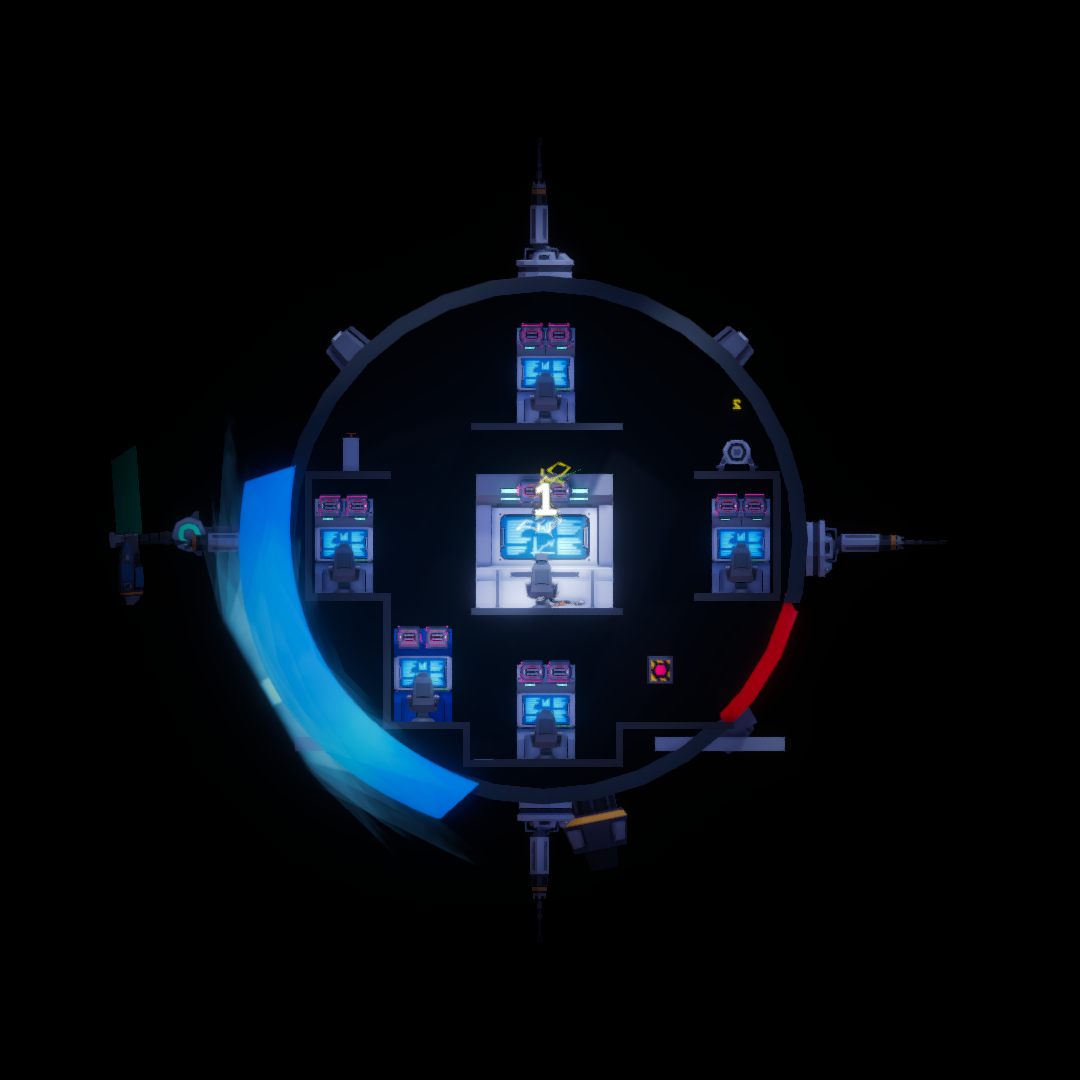
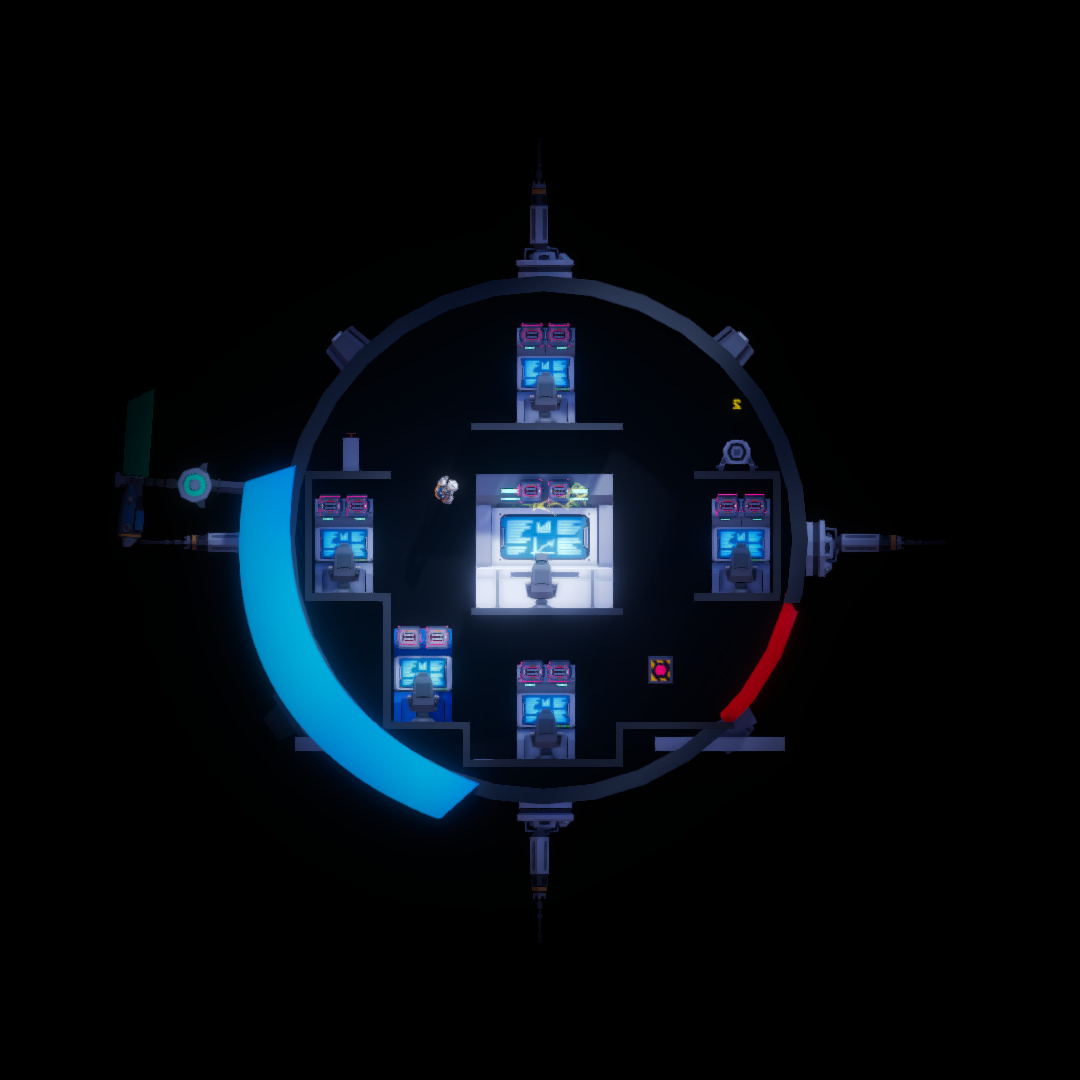
Better Ragdoll Biting

diff --git a/Assets/Scripts/AI/MegalodonRagdollAttack.cs b/Assets/Scripts/AI/MegalodonRagdollAttack.cs
@@ -7,7 +7,9 @@ public class MegalodonRagdollAttack : GAction
 {
     #region Editor Fields
 
+    [SerializeField] private Transform _mouthTransform;
     [SerializeField] private Collider _biteCollider;
+    [SerializeField] private Collider _bodyCollider;
     [SerializeField] private float _attackSpeed = 50f;
 
     #endregion
@@ -16,14 +18,24 @@ public class MegalodonRagdollAttack : GAction
 
     private GameObject _currentRunAwayObj;
     private bool _goToZPos;
+    private bool _prevIsKinematic;
+    private bool _prevUseGravity;
+    private bool _hitShip;
 
     #endregion
 
     public override bool PrePerform()
     {
-        Debug.Log("PrePerform MegalodonRagdollAttack");
+        _hitShip = false;
+
+        _prevUseGravity = GAgent.StateMachine.Rb.useGravity;
+        _prevIsKinematic = GAgent.StateMachine.Rb.isKinematic;
 
         _biteCollider.enabled = true;
+        _bodyCollider.enabled = false;
+
+        GAgent.StateMachine.Rb.isKinematic = true;
+        GAgent.StateMachine.Rb.useGravity = false;
         GAgent.StateMachine.CanMove = false;
 
         GameObject newTargetObj = new GameObject();
@@ -53,6 +65,8 @@ public class MegalodonRagdollAttack : GAction
 
         Ship.Instance.FreezeShip(true);
 
+        _hitShip = true;
+
         _biteCollider.enabled = false;
     }
 
@@ -73,6 +87,11 @@ public class MegalodonRagdollAttack : GAction
 
     public override bool Perform()
     {
+        if (!_hitShip) { return true; }
+
+        GAgent.StateMachine.Attack(5, false);
+        Ship.Instance.transform.position = _mouthTransform.position;
+
         return true;
     }
 
@@ -80,7 +99,12 @@ public class MegalodonRagdollAttack : GAction
     {
         if(_currentRunAwayObj != null) { Destroy(_currentRunAwayObj); }
 
+        GAgent.StateMachine.Rb.isKinematic = _prevIsKinematic;
+        GAgent.StateMachine.Rb.useGravity = _prevUseGravity;
+        _bodyCollider.enabled = true;
         _goToZPos = false;
+
+        GAgent.StateMachine.ResetAttacking();
 
         Debug.Log("PostPerform MegalodonRagdollAttack");
 

diff --git a/Assets/Scripts/AI/AIStateMachine.cs b/Assets/Scripts/AI/AIStateMachine.cs
@@ -39,12 +39,18 @@ public class AIStateMachine : BaseStateMachine
         StartCoroutine(SetIsShootingCoroutine());
     }
 
-    public void Attack(int attackNumber)
+    public void Attack(int attackNumber, bool checkCanMove = true)
     {
-        if (!CanMove) { return; }
+        if (checkCanMove) { if (!CanMove) { return; } }
 
         Anim.SetInteger("AttackType", attackNumber);
         Anim.SetTrigger("Attack");
+    }
+
+    public void ResetAttacking()
+    {
+        Anim.SetInteger("AttackType", 0);
+        Anim.ResetTrigger("Attack");
     }
 
     public void SetIsCarryingItem(bool isCarrying)

diff --git a/Assets/Scripts/AI/Megalodon.cs b/Assets/Scripts/AI/Megalodon.cs
@@ -41,6 +41,8 @@ public class Megalodon : GAgent
         Vector3 difVector = CurrentAction ? transform.position - CurrentAction.Target.transform.position : Vector3.zero;
 
         float yRotationTarget = difVector.x > 0 ? 270f : 90f;
+        if(CurrentAction is MoveInZPlane) { yRotationTarget = 0f; }
+        else if(CurrentAction is MegalodonRagdollAttack) { yRotationTarget = 180f; }
 
         Quaternion targetRotation = Quaternion.Euler(0f, _currentYTarget, 90f);
 

diff --git a/Assets/Scripts/Combat/Shield.cs b/Assets/Scripts/Combat/Shield.cs
@@ -63,6 +63,8 @@ public class Shield : MonoBehaviour
         //Recursively tries to fetch the root gameobject of the collision
         Transform parentTransform = collision.transform.parent;
 
+        if(parentTransform == null) { return; }
+
         for (int i = 0; i < _getComponentTries; i++)
         {
             if (parentTransform.TryGetComponent(out AIStateMachine aIStateMachine)) { PushEnemy(aIStateMachine, collision); break; }

diff --git a/Assets/Scripts/AI/AIHealth.cs b/Assets/Scripts/AI/AIHealth.cs
@@ -50,6 +50,7 @@ public class AIHealth : PlayerHealth
 
     private void HandleDead()
     {
+        Debug.Log("HandleDead: " + gameObject.name);
         StopPreviousAction();
         _gAgent.enabled = false;
         _rb.isKinematic = false;
